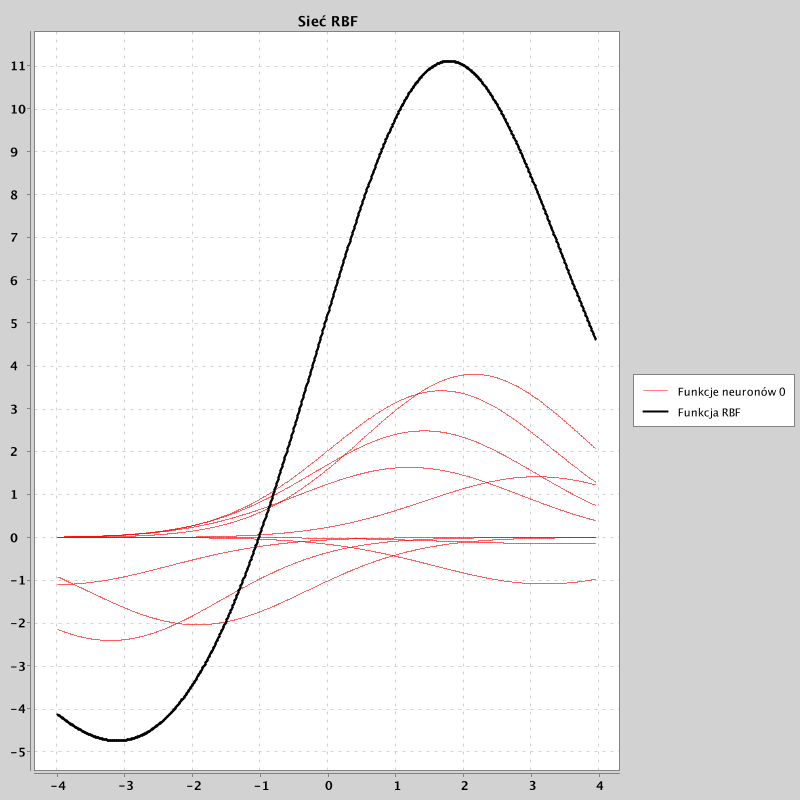
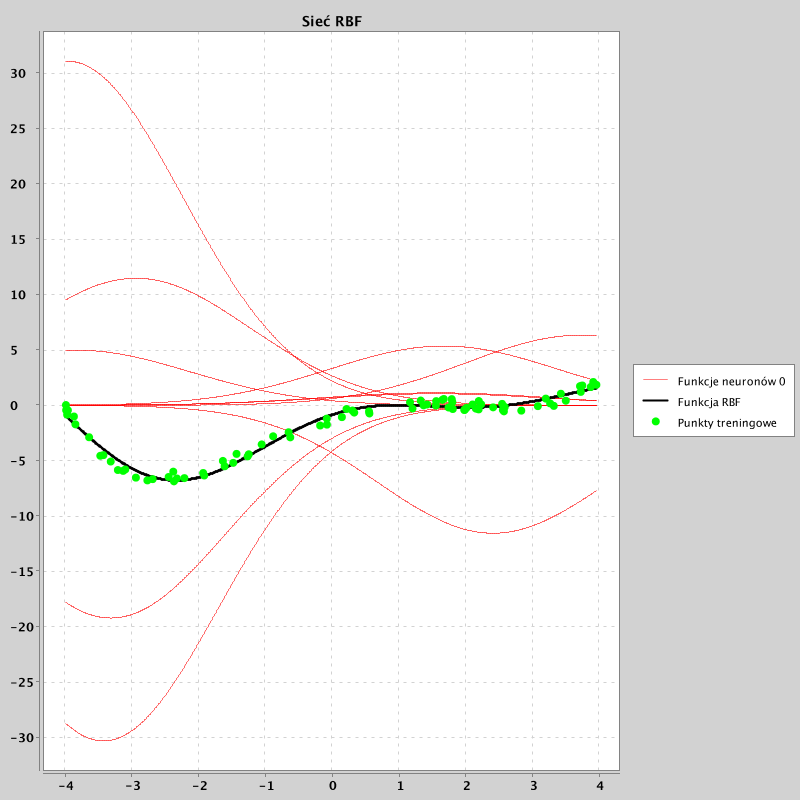
Working RBF network

diff --git a/src/main/kotlin/network/Network.kt b/src/main/kotlin/network/Network.kt
@@ -1,14 +1,19 @@
 package network
 
 import math.Point
+import math.input
+import math.output
+import math.project
 import network.centers.CenterGenerator
 import network.sigmas.SigmaGenerator
 
-class Network(val numRadialNeurons : Int) {
+class Network(val numRadialNeurons : Int, var alpha : Double) {
     private val radialLayer = ArrayList<RadialNeuron>()
     val outputLayer = ArrayList<LinearNeuron>()
+    lateinit var trainingData : List<Pair<Point, Point>>
 
-    constructor(dimension: Int, sigmas : List<Double>, centers: List<Point>, numLinearNeurons: Int) : this(sigmas.size) {
+
+    constructor(dimension: Int, sigmas : List<Double>, centers: List<Point>, numLinearNeurons: Int) : this(sigmas.size, 0.0) {
         createRadialLayer(sigmas, centers)
         createLinearLayer(dimension, numLinearNeurons)
     }
@@ -16,15 +21,17 @@ class Network(val numRadialNeurons : Int) {
     constructor(
         numRadialNeurons: Int,
         numLinearNeurons: Int,
-        data: List<Point>,
+        trainingData: List<Pair<Point, Point>>,
         centerGenerator: CenterGenerator,
-        sigmaGenerator: SigmaGenerator
-    ) : this(numRadialNeurons) {
-        val centers = centerGenerator.generate(numRadialNeurons, data)
+        sigmaGenerator: SigmaGenerator,
+        alpha: Double
+    ) : this(numRadialNeurons, alpha) {
+        this.trainingData = trainingData
+        val centers = centerGenerator.generate(numRadialNeurons, trainingData.input())
         val sigmas = sigmaGenerator.generate(centers)
 
         createRadialLayer(sigmas, centers)
-        createLinearLayer(data.first().dimension(), numLinearNeurons)
+        createLinearLayer(trainingData.input().first().dimension(), numLinearNeurons)
     }
 
     private fun createRadialLayer(sigmas: List<Double>, centers: List<Point>) {
@@ -41,5 +48,15 @@ class Network(val numRadialNeurons : Int) {
         }
     }
 
-    fun output(x: Point) : List<Double> = outputLayer.map { it.output(x) }
+    fun output(x: Point) : Point = Point(outputLayer.map { it.output(x) })
+
+    fun step() {
+        for ((index, linearNeuron) in outputLayer.withIndex()) {
+            linearNeuron.step(trainingData.input(), trainingData.output().project(index), alpha)
+        }
+    }
+
+    fun error(data: List<Pair<Point, Point>>) = data.sumByDouble { (input, expected) -> (output(input) - expected).pow(2.0).sum() } / (2.0 * data.size)
+    fun error() = error(trainingData)
+
 }

diff --git a/src/main/kotlin/warmups/Warmup2.kt b/src/main/kotlin/warmups/Warmup2.kt
@@ -3,10 +3,17 @@ package warmups
 import files.DataLoader
 import math.Utils
 import math.input
+import math.output
+import math.project
 import network.Network
 import network.centers.FromDataGenerator
 import network.sigmas.EqualSigmaGenerator
+import org.knowm.xchart.XYChart
+import org.knowm.xchart.style.lines.SeriesLines
+import org.knowm.xchart.style.markers.SeriesMarkers
 import utils.Charts
+import java.awt.Color
+import kotlin.math.abs
 
 class Warmup2 : Warmup() {
     private val data = DataLoader.loadFile("approx1", 1, 1)
@@ -22,9 +29,10 @@ class Warmup2 : Warmup() {
         val network = Network(
             4,
             1,
-            data.input(),
+            data,
             FromDataGenerator(),
-            EqualSigmaGenerator()
+            EqualSigmaGenerator(),
+            0.1
         )
 
         Charts.saveChart("out4_approx", plotNetwork(arguments, network))
@@ -34,17 +42,47 @@ class Warmup2 : Warmup() {
         val network = Network(
             10,
             1,
-            data.input(),
+            data,
             FromDataGenerator(),
-            EqualSigmaGenerator()
+            EqualSigmaGenerator(),
+            0.9
         )
 
-        Charts.saveChart("out10_approx", plotNetwork(arguments, network))
+        var i = 0
+        val errors = ArrayList<Double>()
+        while (true) {
+            network.step()
+            i += 1
+            val error = network.error()
+            println("$i $error")
+
+            if (error < 0.1) {
+                break
+            }
+
+            errors += error
+        }
+
+
+        if (network.error() < 10.0) {
+            Charts.saveChart("out10_approx", plotNetwork(arguments, network))
+        }
+    }
+
+    override fun plotNetwork(arguments: List<Double>, network: Network): XYChart {
+        val chart = super.plotNetwork(arguments, network)
+
+        val series = chart.addSeries("Punkty treningowe", data.input().project(0), data.output().project(0))
+        series.lineStyle = SeriesLines.NONE
+        series.markerColor = Color.GREEN
+        series.marker = SeriesMarkers.CIRCLE
+
+        return chart
     }
 }
 
 fun main() {
     val warmup = Warmup2()
-    warmup.taskK4()
+    //warmup.taskK4()
     warmup.taskK10()
 }

diff --git a/src/main/kotlin/network/LinearNeuron.kt b/src/main/kotlin/network/LinearNeuron.kt
@@ -21,16 +21,36 @@ class LinearNeuron(dimension: Int, numPreviousNeurons: Int) {
         this.neurons.addAll(neurons)
     }
 
+    fun weigh(x: Point) : List<Double> {
+        return neurons.mapIndexed { index, neuron ->
+            if (index == 0) {
+                weights[index] * 1
+            } else {
+                weights[index] * neuron.z(x)
+            }
+        }
+    }
 
-    fun applyWeights(x: Point) : List<Double> {
+    fun output(x: Point) : Double {
         if (weights.size != neurons.size) {
             throw IllegalStateException("calculate without proper connected neuron number")
         }
 
-        return neurons.mapIndexed { index, neuron ->  weights[index] * neuron.output(x) }
+        return weigh(x).sum()
     }
 
-    fun output(x: Point) : Double {
-        return applyWeights(x).sum()
+
+    fun step(inputs : List<Point>, expected : List<Double>, alpha: Double) {
+        for (weightIndex in weights.indices) {
+            var sum = 0.0
+            for ((input, expected) in inputs zip expected) {
+                val difference = output(input) - expected
+                val weight = neurons[weightIndex].z(input)
+                val multiplied = difference * weight
+                sum += multiplied
+            }
+            sum /= inputs.size
+            weights[weightIndex] -= alpha * sum
+        }
     }
 }

diff --git a/src/main/kotlin/warmups/Warmup.kt b/src/main/kotlin/warmups/Warmup.kt
@@ -1,18 +1,16 @@
 package warmups
 
 import math.Point
-import math.Utils
 import network.Network
 import org.knowm.xchart.XYChart
 import org.knowm.xchart.XYChartBuilder
 import org.knowm.xchart.style.markers.SeriesMarkers
-import utils.Charts
 import java.awt.Color
 
 abstract class Warmup {
-    protected fun plotNetwork(arguments: List<Double>, network: Network) : XYChart {
+    open fun plotNetwork(arguments: List<Double>, network: Network) : XYChart {
 
-        var values = arguments.map { network.output(Point(it)).first() }.toList()
+        var values = arguments.map { network.output(Point(it)).x() }.toList()
 
         val partials = ArrayList<Pair<List<Double>, List<Double>>>()
         val outputNeuron = network.outputLayer.first()
@@ -20,7 +18,7 @@ abstract class Warmup {
             partials.add(
                 Pair(
                     arguments,
-                    arguments.map { outputNeuron.applyWeights(Point(it))[idx] }.toList()
+                    arguments.map { outputNeuron.weigh(Point(it))[idx] }.toList()
                 )
             )
         }
@@ -32,7 +30,7 @@ abstract class Warmup {
         )
     }
 
-    open fun createChart(
+    fun createChart(
         main : Pair<List<Double>, List<Double>>,
         partials: List<Pair<List<Double>, List<Double>>>,
         title: String

diff --git a/src/main/kotlin/math/Point.kt b/src/main/kotlin/math/Point.kt
@@ -4,6 +4,7 @@ import kotlin.math.pow
 
 fun Collection<Pair<Point, Point>>.input() = map { it.first }
 fun Collection<Pair<Point, Point>>.output() = map { it.second }
+fun Collection<Point>.project(n: Int) = map {it.coordinates[n]}
 
 class Point(n: Int) : Cloneable {
     val coordinates = DoubleArray(n)
@@ -39,6 +40,32 @@ class Point(n: Int) : Cloneable {
     fun setLocation(b: Point) {
         setLocation(b.coordinates)
     }
+
+    operator fun minus(b: Point) : Point {
+        if (coordinates.size != b.coordinates.size) {
+            throw IllegalArgumentException("calculate point in different dimensions")
+        }
+
+        val result = clone()
+        for (index in b.coordinates.indices) {
+            result.coordinates[index] -= b.coordinates[index]
+        }
+
+        return result
+    }
+
+
+    fun pow(x: Double) : Point {
+        val result = clone()
+
+        for (index in coordinates.indices) {
+            result.coordinates[index] = coordinates[index].pow(x)
+        }
+
+        return result
+    }
+
+    fun sum() : Double = coordinates.sum()
 
 
 

diff --git a/src/main/kotlin/network/RadialNeuron.kt b/src/main/kotlin/network/RadialNeuron.kt
@@ -4,7 +4,7 @@ import math.Point
 import kotlin.math.pow
 
 class RadialNeuron(private val center : Point, private val sigma : Double) {
-    fun output(x : Point) = radialFunction(center.distance(x))
+    fun z(x : Point) = radialFunction(center.distance(x))
 
     fun radialFunction(d: Double) = Math.exp(
         -d.pow(2) / (2 * sigma.pow(2))
